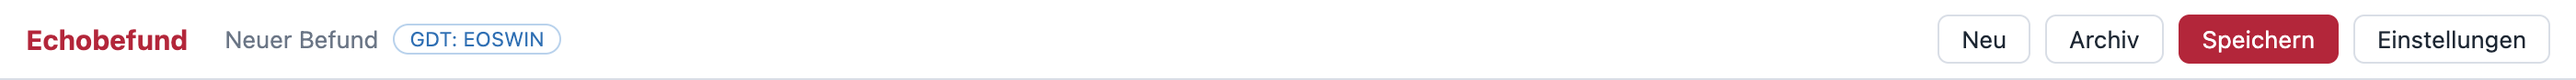
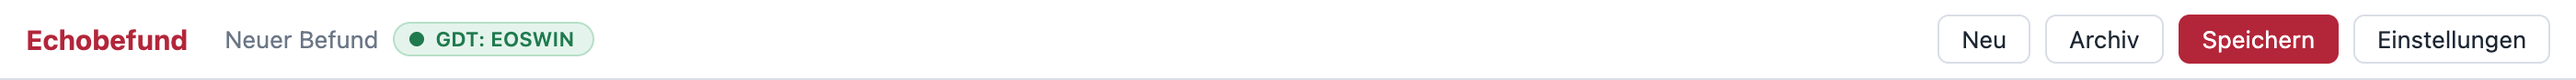
Verbindungsampel für die GDT-Anbindung, Release-Workflow für beide Plattformen
- Ampel in der Kopfleiste: grün (verbunden), gelb (Befund nicht abgeholt),
  rot (Austauschordner nicht erreichbar, inkl. 5-s-Timeout für Netzlaufwerke)
- Hinweistext beim Überfahren, Klick öffnet die passende Stelle der Anleitung
- Einstellbare Wartezeit bis zur Abhol-Warnung
- Anleitung um Ampel und direkte Sprungmarken in der Problemlösung ergänzt
- Workflow baut macOS-App und Windows-EXE auf GitHub und veröffentlicht das Release
- Version 0.3.0

Changed region(s): [[0.1554, 0.2727, 0.2486, 0.7045]]

diff --git a/docs/anleitung/index.html b/docs/anleitung/index.html
@@ -42,6 +42,11 @@
     .box.warn { background: var(--warn-soft); border-color: var(--warn); }
     .box.info { background: var(--blue-soft); border-color: var(--blue); }
     .box .title { font-weight: 700; }
+    .ampel { display: inline-flex; align-items: center; gap: 6px; font-size: .82rem; font-weight: 600; border-radius: 12px; padding: 2px 10px 2px 8px; white-space: nowrap; }
+    .ampel::before { content: ""; width: 8px; height: 8px; border-radius: 50%; background: currentColor; }
+    .ampel.ok { color: #1f7a4d; background: #e4f4ec; }
+    .ampel.warn { color: #8a5a00; background: #fff4dc; }
+    .ampel.err { color: #b3263a; background: #fbe9ec; }
     figure { margin: 16px 0 22px; }
     figure img { display: block; max-width: 100%; height: auto; border: 1px solid var(--line); border-radius: 10px; box-shadow: 0 8px 26px rgba(20, 28, 40, .10); background: #fff; }
     figure.narrow img { max-width: 380px; width: 100%; }
@@ -202,10 +207,21 @@
       <img src="01-einstellungen-gdt.png" alt="Einstellungsfenster von Echobefund, Reiter Praxissoftware (GDT), mit aktivierter Anbindung und Austauschordner C:\GDT" loading="lazy" width="1000" height="768">
       <figcaption>So sieht der Reiter „Praxissoftware (GDT)“ nach dem Einstellen aus. Wichtig ist die Zeile unter „Dateiendung“: Sie zeigt die beiden Dateinamen, die Sie gleich in EOSWIN brauchen.</figcaption>
     </figure>
-    <p>Nach dem Speichern sehen Sie oben neben dem Programmnamen die Markierung <span class="ui">GDT: EOSWIN</span>. Daran erkennen Sie, dass die Verbindung eingeschaltet ist.</p>
+    <p>Nach dem Speichern sehen Sie oben neben dem Programmnamen eine farbige Markierung – eine kleine <strong>Ampel</strong> für die Verbindung. Sie wird laufend aktualisiert:</p>
+    <div class="table-wrap">
+      <table>
+        <thead><tr><th>Anzeige</th><th>Bedeutung</th><th>Was tun?</th></tr></thead>
+        <tbody>
+          <tr><td><span class="ampel ok">GDT: EOSWIN</span></td><td>Alles in Ordnung: Der Austauschordner ist erreichbar, kein Befund wartet.</td><td>Nichts.</td></tr>
+          <tr><td><span class="ampel warn">Befund wartet auf Abholung</span></td><td>Ein gesendeter Befund liegt seit über 2 Minuten im Ordner, EOSWIN hat ihn noch nicht übernommen.</td><td>Siehe <a href="#p-abholung">Problemlösung</a>.</td></tr>
+          <tr><td><span class="ampel err">GDT-Ordner nicht erreichbar</span></td><td>Der Austauschordner fehlt – z. B. Server aus, Netzwerk getrennt. Aufträge aus EOSWIN kommen nicht an.</td><td>Siehe <a href="#p-ordner">Problemlösung</a>.</td></tr>
+        </tbody>
+      </table>
+    </div>
+    <p>Wenn Sie mit der Maus über die Markierung fahren, erscheint eine kurze Erklärung. Ein Klick darauf öffnet die passende Stelle dieser Anleitung.</p>
     <figure>
       <img src="00-toolbar.png" alt="Obere Leiste von Echobefund mit der Markierung GDT: EOSWIN" loading="lazy" width="1400" height="44">
-      <figcaption>Die blaue Markierung „GDT: EOSWIN“ zeigt: Echobefund wartet auf Aufträge aus EOSWIN.</figcaption>
+      <figcaption>Die grüne Markierung „GDT: EOSWIN“ zeigt: Die Verbindung ist eingeschaltet und der Austauschordner erreichbar.</figcaption>
     </figure>
 
     <!-- ===================================================== -->
@@ -339,6 +355,10 @@ Vielen Dank und freundliche Grüße</div>
       <li>Text bei Bedarf direkt im Textfeld anpassen.</li>
       <li><span class="ui">An EOSWIN senden</span> – fertig. Der Befund wird zusätzlich im Echobefund-Archiv gespeichert.</li>
     </ol>
+    <div class="box tip">
+      <p class="title">Ein Blick auf die Ampel genügt</p>
+      <p>Grün oben neben „Echobefund“ heißt: Verbindung in Ordnung. Gelb oder rot: mit der Maus darüberfahren oder draufklicken – dann sehen Sie, was los ist.</p>
+    </div>
 
     <h3>Was bedeutet der blaue Balken oben?</h3>
     <p>Wenn Sie in Echobefund gerade etwas eingegeben, aber noch nicht gesendet oder gespeichert haben, und in EOSWIN schon den nächsten Patienten aufrufen, überschreibt Echobefund Ihre Eingaben <strong>nicht</strong> einfach. Stattdessen erscheint oben dieser Balken:</p>
@@ -368,8 +388,8 @@ Vielen Dank und freundliche Grüße</div>
       </ol>
     </details>
 
-    <details>
-      <summary>Beim Senden erscheint „Die vorherige Befunddatei wurde von der Praxissoftware noch nicht abgeholt“</summary>
+    <details id="p-abholung">
+      <summary>Oben steht gelb „Befund wartet auf Abholung“ – oder beim Senden erscheint „… noch nicht abgeholt“</summary>
       <p>Echobefund überschreibt zur Sicherheit nie einen Befund, den EOSWIN noch nicht eingelesen hat. Öffnen Sie in EOSWIN die Kartei bzw. lösen Sie den Import aus, damit EOSWIN die Datei <code>EOSWECHO.GDT</code> abholt – danach erneut senden.</p>
       <p>Bleibt die Meldung dauerhaft, holt EOSWIN die Datei nicht ab. Meist stimmt dann der Name der Importdatei in EOSWIN nicht (muss <code>EOSWECHO.GDT</code> sein) oder der Ordner ist ein anderer.</p>
     </details>
@@ -384,8 +404,9 @@ Vielen Dank und freundliche Grüße</div>
       <p>In Echobefund unter <span class="ui">Befundtext als</span> von <span class="ui">Ergebnistext formatiert (6228)</span> auf <span class="ui">Befund (6220)</span> umstellen (oder umgekehrt) und erneut testen. Wenn Zeilen zu kurz umbrechen, kann die <span class="ui">Max. Zeilenlänge</span> erhöht werden, z. B. auf 80 – nur ändern, wenn EOSWIN das problemlos anzeigt.</p>
     </details>
 
-    <details>
-      <summary>„Testen“ zeigt „✗“ statt „✓ Ordner ist beschreibbar“</summary>
+    <details id="p-ordner">
+      <summary>Oben steht rot „GDT-Ordner nicht erreichbar“ – oder „Testen“ zeigt „✗“</summary>
+      <p><strong>Liegt der Ordner auf dem Praxis-Server</strong> (z. B. <code>\\SERVER\GDT</code>): Ist der Server eingeschaltet? Funktioniert EOSWIN an diesem Computer? Öffnen Sie den Ordner testweise im Explorer. Sobald er wieder erreichbar ist, wird die Markierung nach wenigen Sekunden von selbst grün.</p>
       <p>Der Ordner existiert nicht oder Windows erlaubt dort kein Schreiben. Legen Sie den Ordner wie in <a href="#teil2">Teil 2</a> beschrieben an und wählen Sie ihn erneut über <span class="ui">Wählen…</span> aus. Bei einem Netzwerkordner: Ist der Server erreichbar? Sonst den IT-Betreuer fragen.</p>
     </details>
 

diff --git a/src/main/main.js b/src/main/main.js
@@ -76,10 +76,34 @@ function createWindow() {
 // ---------- GDT (Praxissoftware, z. B. EOSWIN) ----------
 
 const GDT_POLL_MS = 1500;
+const DIR_TIMEOUT_MS = 5000;
 let gdtTimer = null;
 let gdtBusy = false;
 let rendererReady = false;
 const gdtQueue = [];
+let gdtStatus = { state: 'off' };
+
+function setGdtStatus(status) {
+  if (JSON.stringify(status) === JSON.stringify(gdtStatus)) return;
+  gdtStatus = status;
+  if (rendererReady && mainWindow) mainWindow.webContents.send('gdt:status', gdtStatus);
+}
+
+// Netzlaufwerke können bei Serverausfall lange hängen: nach `ms` als nicht erreichbar werten.
+// Der hängende Aufruf blockiert weitere Abfragen (gdtBusy), bis Windows ihn selbst beendet.
+async function readdirWithTimeout(dir, ms) {
+  const pending = fs.readdir(dir);
+  let timer;
+  const timeout = new Promise((_, reject) => { timer = setTimeout(() => reject(new Error('Zeitüberschreitung')), ms); });
+  try {
+    return await Promise.race([pending, timeout]);
+  } catch (err) {
+    await pending.catch(() => {});
+    throw err;
+  } finally {
+    clearTimeout(timer);
+  }
+}
 
 async function gdtConfig() {
   const settings = await readJson(settingsFile(), {});
@@ -97,14 +121,33 @@ async function pollGdt() {
   gdtBusy = true;
   try {
     const cfg = await gdtConfig();
-    if (!cfg.enabled || !cfg.dir) return;
-    const pattern = gdt.incomingPattern(cfg.ownShort, cfg.pvsShort);
-    let names;
-    try {
-      names = (await fs.readdir(cfg.dir)).filter((n) => pattern.test(n));
-    } catch {
-      return; // Ordner (noch) nicht erreichbar, z. B. Netzlaufwerk getrennt
+    if (!cfg.enabled || !cfg.dir) {
+      setGdtStatus(gdt.evaluateStatus({ enabled: cfg.enabled, dir: cfg.dir }));
+      return;
     }
+    let allNames;
+    try {
+      allNames = await readdirWithTimeout(cfg.dir, DIR_TIMEOUT_MS);
+    } catch {
+      // Ordner nicht erreichbar, z. B. Server aus oder Netzlaufwerk getrennt
+      setGdtStatus(gdt.evaluateStatus({ enabled: true, dir: cfg.dir, dirReadable: false }));
+      return;
+    }
+    const outPattern = gdt.outgoingPattern(cfg.ownShort, cfg.pvsShort);
+    const outgoing = (await Promise.all(allNames.filter((n) => outPattern.test(n)).map(async (n) => {
+      const stat = await fs.stat(path.join(cfg.dir, n)).catch(() => null);
+      return stat && { name: n, mtime: stat.mtimeMs };
+    }))).filter(Boolean);
+    setGdtStatus(gdt.evaluateStatus({
+      enabled: true,
+      dir: cfg.dir,
+      dirReadable: true,
+      outgoing,
+      warnMs: (Number(cfg.pickupWarnSeconds) || 120) * 1000,
+    }));
+
+    const pattern = gdt.incomingPattern(cfg.ownShort, cfg.pvsShort);
+    const names = allNames.filter((n) => pattern.test(n));
     const files = await Promise.all(names.map(async (n) => {
       const file = path.join(cfg.dir, n);
       const stat = await fs.stat(file).catch(() => null);
@@ -146,6 +189,13 @@ const safeName = (s) => String(s || '').replace(/[^\p{L}\p{N}_-]+/gu, '-').repla
 ipcMain.handle('gdt:ready', () => {
   rendererReady = true;
   deliverGdt();
+  return gdtStatus;
+});
+
+// Öffnet die Online-Anleitung im Standardbrowser (nur diese Adresse, nur einfache Sprungmarken).
+ipcMain.handle('open:guide', (_e, anchor) => {
+  const hash = /^[a-z0-9-]{1,40}$/i.test(String(anchor || '')) ? `#${anchor}` : '';
+  return shell.openExternal(`https://fmatsch.github.io/echobefund/anleitung/${hash}`);
 });
 
 ipcMain.handle('gdt:checkDir', async (_e, dir) => {

diff --git a/src/renderer/app.js b/src/renderer/app.js
@@ -296,15 +296,45 @@
   // ---------- Praxissoftware (GDT) ----------
 
   let pendingGdt = null;
+  let gdtStatus = { state: 'off' };
+
+  // Ampel: Zustand aus dem Hauptprozess → Farbe, Text, Hinweis, Sprungmarke in der Anleitung
+  function statusView(status, g) {
+    const name = g.pvsName || 'Praxissoftware';
+    const time = (ms) => new Date(ms).toLocaleTimeString('de-DE', { hour: '2-digit', minute: '2-digit' });
+    switch (status.state) {
+      case 'unconfigured':
+        return { cls: 'err', text: 'GDT: kein Ordner', anchor: 'teil3',
+          tip: 'Kein Austauschordner eingestellt. Einstellungen → Praxissoftware (GDT) → Austauschordner wählen.' };
+      case 'unreachable':
+        return { cls: 'err', text: 'GDT-Ordner nicht erreichbar', anchor: 'p-ordner',
+          tip: `Der Austauschordner ${g.dir} ist nicht erreichbar – z. B. Server ausgeschaltet, Netzwerk getrennt oder Ordner gelöscht. Aufträge aus ${name} kommen so nicht an. Klicken für Hilfe.` };
+      case 'waiting':
+        return { cls: 'warn', text: 'Befund wartet auf Abholung', anchor: 'p-abholung',
+          tip: `Der gesendete Befund (${status.file}) liegt seit ${time(status.since)} Uhr im Austauschordner und wurde von ${name} noch nicht abgeholt. Klicken für Hilfe.` };
+      case 'ok':
+        return { cls: 'ok', text: `GDT: ${name}`, anchor: 'alltag',
+          tip: `Verbunden: Austauschordner ${g.dir} ist erreichbar, keine Befunde warten auf Abholung.` };
+      default:
+        return null;
+    }
+  }
 
   function updateGdtUI() {
     const g = settings.gdt;
     const name = g.pvsName || 'Praxissoftware';
     $('#btn-gdt-send').hidden = !g.enabled;
     $('#btn-gdt-send').textContent = `An ${name} senden`;
-    $('#gdt-badge').hidden = !g.enabled;
-    $('#gdt-badge').textContent = g.dir ? `GDT: ${name}` : 'GDT: kein Ordner';
-    $('#gdt-badge').title = g.dir || 'Einstellungen → Praxissoftware (GDT)';
+    const badge = $('#gdt-badge');
+    // Bis der erste Status eintrifft, den Zustand aus den Einstellungen annehmen
+    const status = !g.enabled ? { state: 'off' } : gdtStatus.state === 'off' ? { state: g.dir ? 'ok' : 'unconfigured' } : gdtStatus;
+    const view = statusView(status, g);
+    badge.hidden = !view;
+    if (!view) return;
+    badge.className = `gdt-badge ${view.cls}`;
+    badge.textContent = view.text;
+    badge.title = view.tip;
+    badge.dataset.anchor = view.anchor;
   }
 
   function handleGdtRequest(req) {
@@ -485,7 +515,10 @@
     loadIntoUI();
     updateGdtUI();
     api.onGdtRequest(handleGdtRequest);
-    api.gdtReady();
+    api.onGdtStatus((s) => { gdtStatus = s; updateGdtUI(); });
+    $('#gdt-badge').onclick = () => api.openGuide($('#gdt-badge').dataset.anchor);
+    const initial = await api.gdtReady();
+    if (initial) { gdtStatus = initial; updateGdtUI(); }
   }
 
   init();

diff --git a/test/gdt.test.js b/test/gdt.test.js
@@ -87,3 +87,26 @@ test('Dateinamen: eingehend, fest und hochzählend', () => {
   assert.equal(gdt.outgoingName('ECHO', 'EDV1', 'fixed', ['edv1echo.gdt']), null);
   assert.equal(gdt.outgoingName('ECHO', 'EDV1', 'counter', ['EDV1ECHO.001', 'EDV1ECHO.002', 'ECHOEDV1.009']), 'EDV1ECHO.003');
 });
+
+test('Ausgehende Dateien erkennen (für die Abhol-Warnung)', () => {
+  const re = gdt.outgoingPattern('ECHO', 'EOSW');
+  assert.ok(re.test('EOSWECHO.GDT'));
+  assert.ok(re.test('eoswecho.012'));
+  assert.ok(!re.test('ECHOEOSW.GDT'));
+});
+
+test('Ampel-Status: aus, ohne Ordner, nicht erreichbar, wartet, ok', () => {
+  const now = 1_000_000;
+  assert.deepEqual(gdt.evaluateStatus({ enabled: false }), { state: 'off' });
+  assert.deepEqual(gdt.evaluateStatus({ enabled: true, dir: '' }), { state: 'unconfigured' });
+  assert.deepEqual(gdt.evaluateStatus({ enabled: true, dir: 'C:\\GDT', dirReadable: false }), { state: 'unreachable' });
+  // frisch gesendet → noch keine Warnung
+  assert.deepEqual(gdt.evaluateStatus({ enabled: true, dir: 'C:\\GDT', dirReadable: true, outgoing: [{ name: 'EOSWECHO.GDT', mtime: now - 60_000 }], now }), { state: 'ok' });
+  // länger als 2 Minuten liegen geblieben → gelb, älteste Datei wird genannt
+  assert.deepEqual(
+    gdt.evaluateStatus({ enabled: true, dir: 'C:\\GDT', dirReadable: true, outgoing: [{ name: 'EOSWECHO.002', mtime: now - 130_000 }, { name: 'EOSWECHO.001', mtime: now - 300_000 }], now }),
+    { state: 'waiting', file: 'EOSWECHO.001', since: now - 300_000 },
+  );
+  // eigene Wartezeit
+  assert.equal(gdt.evaluateStatus({ enabled: true, dir: 'x', dirReadable: true, outgoing: [{ name: 'a', mtime: now - 40_000 }], now, warnMs: 30_000 }).state, 'waiting');
+});

diff --git a/src/main/gdt.js b/src/main/gdt.js
@@ -267,7 +267,26 @@ function outgoingName(ownShort, pvsShort, mode, existing) {
   return next > 999 ? null : `${base}.${String(next).padStart(3, '0')}`;
 }
 
+// Dateien, die wir an die EDV geschickt haben: <Empfänger=EDV><Sender=wir>.GDT oder .001–.999
+function outgoingPattern(ownShort, pvsShort) {
+  return incomingPattern(pvsShort, ownShort);
+}
+
+// ---------- Verbindungsstatus ----------
+
+// Liefert den Zustand für die Ampel-Anzeige.
+// outgoing: [{ name, mtime }] noch nicht abgeholte Befunddateien im Austauschordner.
+// state: 'off' | 'unconfigured' | 'unreachable' | 'waiting' | 'ok'
+function evaluateStatus({ enabled, dir, dirReadable, outgoing = [], now = Date.now(), warnMs = 120000 }) {
+  if (!enabled) return { state: 'off' };
+  if (!dir) return { state: 'unconfigured' };
+  if (!dirReadable) return { state: 'unreachable' };
+  const stale = outgoing.filter((f) => now - f.mtime >= warnMs).sort((a, b) => a.mtime - b.mtime);
+  if (stale.length) return { state: 'waiting', file: stale[0].name, since: Math.round(stale[0].mtime) };
+  return { state: 'ok' };
+}
+
 module.exports = {
   CHARSETS, encode, decode, encodeLine, buildRecord, parse, toRequest, wrapText, buildResult,
-  incomingPattern, outgoingName, gdtDateToIso, isoToGdtDate, CP437_HIGH,
+  incomingPattern, outgoingPattern, outgoingName, evaluateStatus, gdtDateToIso, isoToGdtDate, CP437_HIGH,
 };

diff --git a/src/renderer/styles.css b/src/renderer/styles.css
@@ -36,7 +36,13 @@ input.invalid { border-color: var(--accent); background: var(--accent-soft); }
 
 .banner { display: flex; align-items: center; gap: 8px; padding: 8px 14px; background: var(--auto-soft); border-bottom: 1px solid #b9d2ec; color: #1b4a7a; font-weight: 600; }
 .banner[hidden] { display: none; }
-.gdt-badge { font-size: 11px; color: var(--auto); border: 1px solid #b9d2ec; border-radius: 10px; padding: 1px 8px; }
+.gdt-badge { display: inline-flex; align-items: center; gap: 6px; font-size: 11px; font-weight: 600; border-radius: 10px; padding: 2px 10px 2px 8px; cursor: help; }
+.gdt-badge::before { content: ""; width: 8px; height: 8px; border-radius: 50%; background: currentColor; }
+.gdt-badge.ok { color: #1f7a4d; background: #e4f4ec; border-color: #b6dfc8; }
+.gdt-badge.warn { color: #8a5a00; background: #fff4dc; border-color: #f0d596; }
+.gdt-badge.err { color: #b3263a; background: var(--accent-soft); border-color: #eab4bd; }
+.gdt-badge.err::before, .gdt-badge.warn::before { animation: pulse 1.6s ease-in-out infinite; }
+@keyframes pulse { 50% { opacity: .3; } }
 .gdt-badge[hidden] { display: none; }
 #btn-gdt-send { width: 100%; padding: 8px; background: var(--auto); border-color: var(--auto); }
 #btn-gdt-send[hidden] { display: none; }

diff --git a/src/renderer/settings.js b/src/renderer/settings.js
@@ -121,6 +121,7 @@
               h('button', { onclick: () => { g.pdfDir = ''; pdfDirLabel.textContent = 'wie Austauschordner'; } }, 'Zurücksetzen')),
             'Nach dem Senden archivieren', checkbox(g.autoSave, (v) => { g.autoSave = v; }),
             'Nach dem Senden minimieren', checkbox(g.minimizeAfterSend, (v) => { g.minimizeAfterSend = v; }),
+            'Warnung „nicht abgeholt“ nach (Sekunden)', h('input', { type: 'number', min: 30, max: 3600, value: g.pickupWarnSeconds, oninput: (e) => { g.pickupWarnSeconds = Math.max(30, Number(e.target.value) || 120); } }),
           ),
           h('p', { class: 'note' }, 'Der PDF-Pfad wird so übertragen, wie er auf diesem Rechner lautet. Bei mehreren Arbeitsplätzen einen Netzwerkpfad (z. B. \\\\SERVER\\GDT) verwenden.')),
       );

diff --git a/src/renderer/index.html b/src/renderer/index.html
@@ -11,7 +11,7 @@
     <header class="toolbar">
       <div class="brand">Echobefund</div>
       <div class="record-status" id="record-status"></div>
-      <span class="gdt-badge" id="gdt-badge" hidden></span>
+      <button class="gdt-badge" id="gdt-badge" type="button" hidden></button>
       <div class="spacer"></div>
       <button id="btn-new">Neu</button>
       <button id="btn-archive">Archiv</button>

diff --git a/src/main/preload.js b/src/main/preload.js
@@ -21,4 +21,6 @@ contextBridge.exposeInMainWorld('api', {
   gdtReady: () => ipcRenderer.invoke('gdt:ready'),
   gdtSend: (data) => ipcRenderer.invoke('gdt:send', data),
   gdtCheckDir: (dir) => ipcRenderer.invoke('gdt:checkDir', dir),
+  onGdtStatus: (cb) => ipcRenderer.on('gdt:status', (_e, status) => cb(status)),
+  openGuide: (anchor) => ipcRenderer.invoke('open:guide', anchor),
 });

diff --git a/src/shared/defaults.js b/src/shared/defaults.js
@@ -373,6 +373,7 @@
       pdfDir: '',             // leer = Austauschordner
       autoSave: true,         // nach dem Senden im Archiv speichern
       minimizeAfterSend: false,
+      pickupWarnSeconds: 120, // Ampel gelb, wenn ein gesendeter Befund so lange nicht abgeholt wurde
     },
     norms: NORMS,
     templates: TEMPLATES,

diff --git a/README.md b/README.md
@@ -75,6 +75,18 @@ Satzart 6311 („Untersuchung zeigen“) öffnet das Archiv gefiltert auf die Pa
 Die genauen Menüpunkte und Feldnamen in EOSWIN können abweichen – im Zweifel den MCW-Support
 nach „GDT-Geräteanbindung“ fragen und die Kennungen von oben durchgeben.
 
+## Neue Version veröffentlichen
+
+Gebaut und hochgeladen wird auf GitHub – große Uploads vom eigenen Rechner sind nicht nötig.
+
+1. Version in `package.json` erhöhen (z. B. `0.3.0`), committen und pushen.
+2. GitHub → **Actions** → **Release bauen und veröffentlichen** → **Run workflow**.
+3. Tag eintragen (`v` + Version, z. B. `v0.3.0`) und kurz beschreiben, was neu ist.
+
+Der Workflow führt die Tests aus, baut macOS-App und Windows-EXE, prüft Signatur und Architekturen,
+erzeugt `SHA256SUMS.txt` und veröffentlicht das Release. Die Download-Links auf der Webseite zeigen
+automatisch auf die neueste Version.
+
 ## Aufbau
 
 | Pfad | Inhalt |
